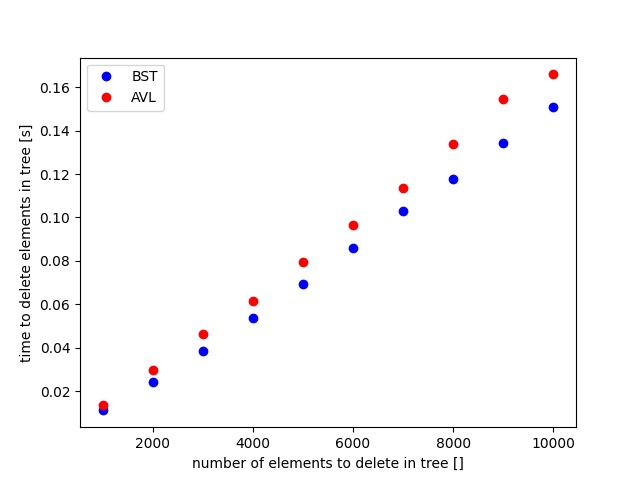
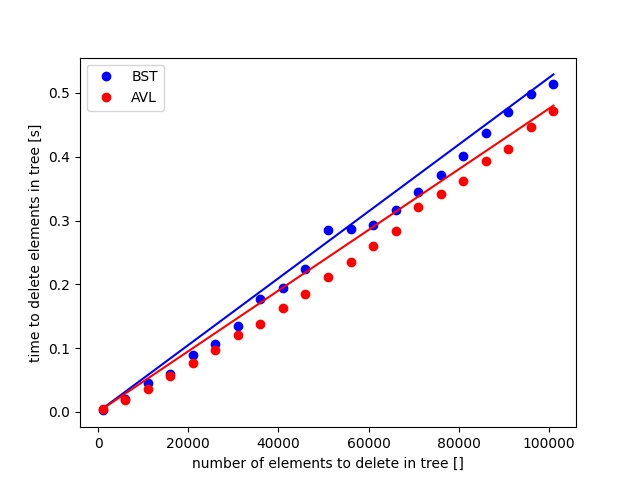
add linear regression to benchmark plots, add tree structure screenshots, remove Drzewa.pdf

diff --git a/3. Drzewa/benchmark.py b/3. Drzewa/benchmark.py
@@ -2,16 +2,17 @@ from random import sample, seed
 from timeit import timeit
 from trees import BST, AVL
 from matplotlib import pyplot as plt
+from numpy import polyfit, array
 from typing import Dict
 
 SEED = "trees"
 START = 1
-END = 30001
+END = 300001
 REPEAT = 1
 
 MIN_N = 1000
-STEP_N = 1000
-MAX_N = 10000
+STEP_N = 5000
+MAX_N = 100000
 
 
 def time_insert(tree: BST, lst: list):
@@ -28,10 +29,22 @@ def time_delete(tree: BST, lst: list):
 
 def plot_benchmark(benchmark_bst: Dict[int, float],
                    benchmark_avl: Dict[int, float]):
+    bst_x = array(list(benchmark_bst.keys()))
+    bst_y = array(list(benchmark_bst.values()))
+
+    avl_x = array(list(benchmark_avl.keys()))
+    avl_y = array(list(benchmark_avl.values()))
+
     bst_plt, =  plt.plot(list(benchmark_bst.keys()), list(
         benchmark_bst.values()), "bo", label="BST")
+    bst_a, bst_b = polyfit(bst_x, bst_y, 1)
+    plt.plot(bst_x, (bst_a * bst_x), "b")
+
     avl_plt, = plt.plot(list(benchmark_avl.keys()), list(
         benchmark_avl.values()), "ro", label="AVL")
+    avl_a, avl_b = polyfit(avl_x, avl_y, 1)
+    plt.plot(avl_x, (avl_a * avl_x), "r")
+
     plt.legend(handles=[bst_plt, avl_plt])
 
 

diff --git a/3. Drzewa/trees.py b/3. Drzewa/trees.py
@@ -221,6 +221,7 @@ class AVL_node(BST_node):
         """
         fix balance of an unbalanced (self._balance == 2 or -2) node,
         which happened during insertion
+
         returns the node which ends up in self position after fixing
         """
         if abs(self._balance) <= 1:
